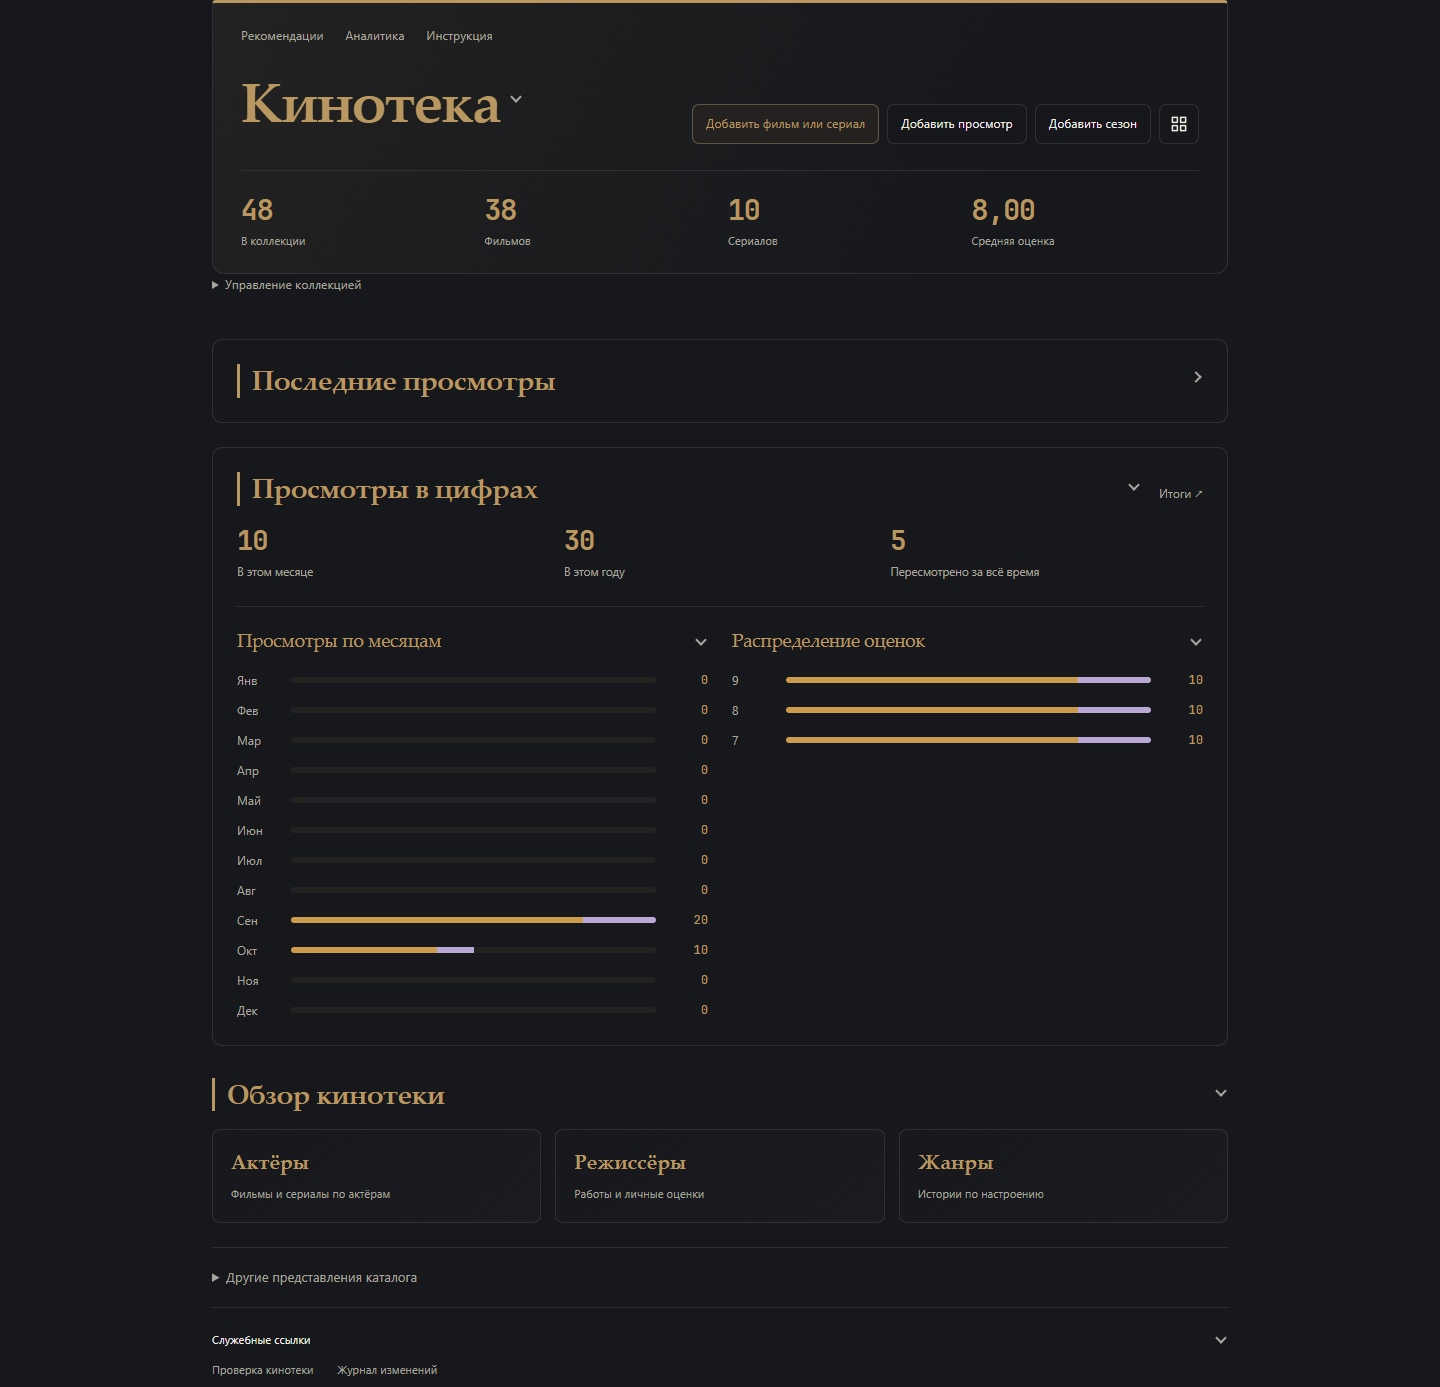
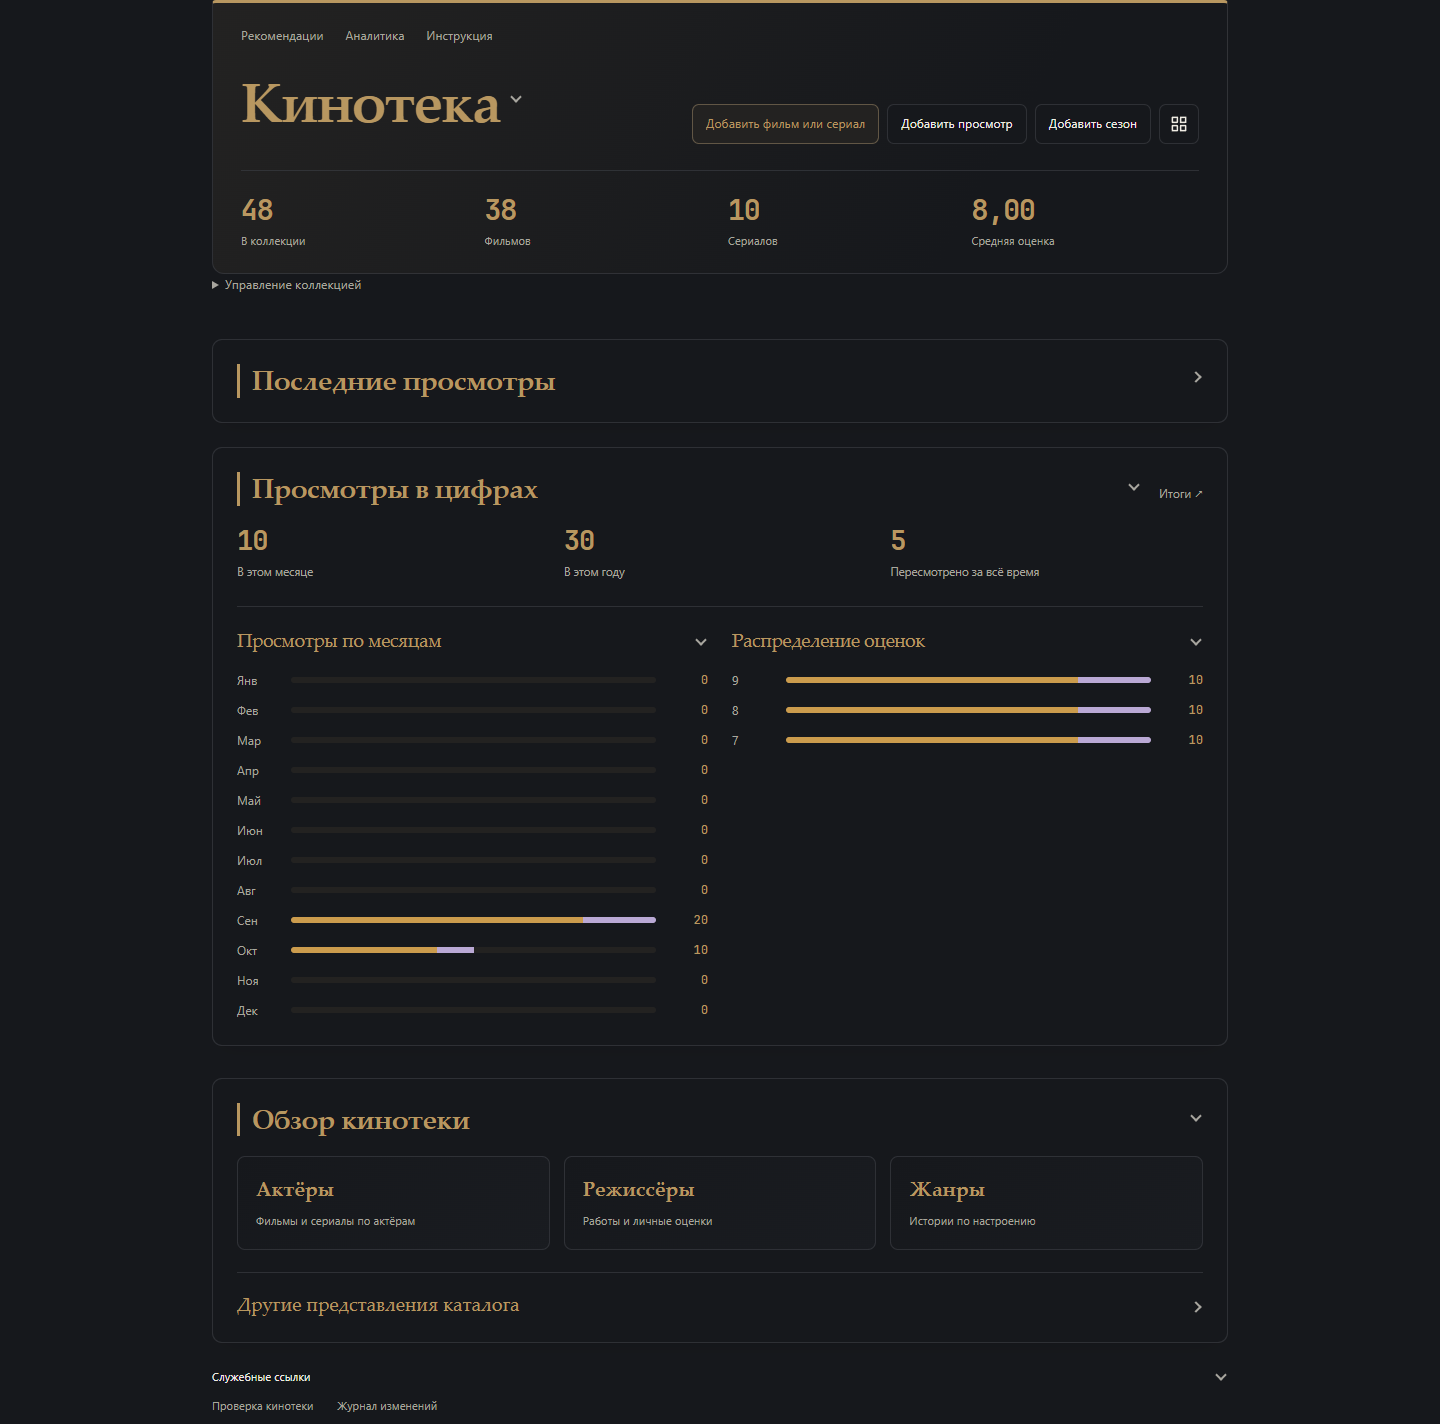
vault backup: 2026-10-10 01:41:23

diff --git a/Кино/_system/kino_home.js b/Кино/_system/kino_home.js
@@ -286,23 +286,27 @@ module.exports = async ({ dv, app, obsidian = {} }) => {
             if (!owner?.on) continue;
             for (const event of events) { const ref = owner.on(event, schedule); cleanups.push(() => owner.offref?.(ref)); }
         }
-        const overviews = el(root, 'section', 'kino-home-overviews'); el(overviews, 'h2', '', 'Обзор кинотеки');
-        const overviewLinks = el(overviews, 'div', 'kino-home-overview-links');
+        const overviews = el(root, 'section', 'kino-home-panel kino-home-overviews'); el(overviews, 'h2', '', 'Обзор кинотеки');
+        const overviewBody = el(overviews, 'div', 'kino-home-overview-body');
+        const overviewLinks = el(overviewBody, 'div', 'kino-home-overview-links');
         for (const [label, description, choice] of [['Актёры', 'Фильмы и сериалы по актёрам', 'Кино - Открыть актера'], ['Режиссёры', 'Работы и личные оценки', 'Кино - Открыть режиссера'], ['Жанры', 'Истории по настроению', 'Кино - Открыть жанр']]) {
             const tile = el(overviewLinks, 'div', 'kino-home-overview'); command(tile, label, choice); el(tile, 'p', '', description);
         }
-        const views = el(root, 'details', 'kino-home-views'); el(views, 'summary', '', 'Другие представления каталога');
+        const views = el(overviewBody, 'details', 'kino-home-views');
+        const viewsHeading = el(views, 'summary'); el(viewsHeading, 'span', '', 'Другие представления каталога');
+        el(viewsHeading, 'span', 'kino-home-fold-chevron').setAttribute('aria-hidden', 'true');
         rememberDetails(management, 'management'); rememberDetails(views, 'views');
         const viewLinks = el(views, 'nav', 'kino-home-view-links'); viewLinks.setAttribute('aria-label', 'Представления каталога');
         for (const [label, name] of [['Подробная таблица', 'Все'], ['Фильмы', 'Фильмы'], ['Сериалы', 'Сериалы'], ['По году релиза', 'По году релиза'], ['Сравнение оценок', 'Сравнение оценок']]) internal(viewLinks, label, 'Кино/_Кино.base#' + name);
         const nativeViews = [];
+        const viewsVisible = () => views.open && overviews.dataset.collapsed !== 'true';
         function nativeView(label, target, embedded = null) {
             const details = embedded ? embedded.box : el(views, 'details', 'kino-home-native-view'); details.dataset.target = target;
             if (!embedded) {
                 rememberDetails(details, 'native:' + target);
                 el(details, 'summary', '', label);
             }
-            const isOpen = () => embedded ? details.dataset.collapsed === 'false' : views.open && details.open;
+            const isOpen = () => embedded ? details.dataset.collapsed === 'false' : viewsVisible() && details.open;
             const content = el(embedded ? embedded.body : details, 'div', 'kino-home-native-content');
             let child = null, generation = 0;
             const linkCleanups = [];
@@ -339,14 +343,16 @@ module.exports = async ({ dv, app, obsidian = {} }) => {
         nativeView('Последние просмотры', 'Кино/_Кино.base#Последние');
         nativeView('Перепросмотры', 'Кино/_Кино.base#Перепросмотры');
         nativeView('Последние сериалы', 'Кино/_Кино.base#Последние сериалы');
-        listen(views, 'toggle', () => { for (const view of nativeViews) if (views.open) void view.open(); else view.clear(); });
+        function syncViews() { for (const view of nativeViews) if (viewsVisible()) void view.open(); else view.clear(); }
+        listen(views, 'toggle', syncViews);
+        listen(overviews, 'kino-fold-change', syncViews);
         const footer = el(root, 'footer', 'kino-home-footer');
         internal(footer, 'Проверка кинотеки', 'Кино/_system/Проверка кинотеки'); internal(footer, 'Журнал изменений', 'Кино/_system/Журнал изменений');
         foldBlock(masthead, heading.querySelector('h1'), [nav, actions, stats], 'masthead', 'Кинотека');
         for (const [block, key, label] of [[recent, 'recent', 'Последние просмотры'], [reading, 'reading', 'Просмотры в цифрах']]) {
             foldBlock(block.box, block.head.querySelector('h2'), [block.body, block.head.querySelector('.kino-home-caption')], key, label);
         }
-        foldBlock(overviews, overviews.querySelector('h2'), [overviewLinks], 'overview', 'Обзор кинотеки');
+        foldBlock(overviews, overviews.querySelector('h2'), [overviewBody], 'overview', 'Обзор кинотеки');
         foldBlock(footer, footer, [...footer.querySelectorAll('a')], 'footer', 'Служебные ссылки');
         if (!disposed) root.dataset.ready = 'true';
         return { dispose };

diff --git a/Кино/_system/kino-home.css b/Кино/_system/kino-home.css
@@ -99,6 +99,15 @@
 .kino-home-ui.kino-home-ui .kino-home-overview p { margin: 7px 0 0; font-size: .7em; color: var(--text-muted); overflow-wrap: anywhere; }
 .kino-home-ui.kino-home-ui .kino-home-views { padding: 18px 0; border-top: 1px solid var(--home-line); border-bottom: 1px solid var(--home-line); font-size: .82em; }
 .kino-home-ui.kino-home-ui .kino-home-views>summary { color: var(--text-muted); cursor: pointer; }
+.kino-home-ui.kino-home-ui .kino-home-overview-body { margin-top: 20px; min-width: 0; }
+.kino-home-ui.kino-home-ui .kino-home-overview-body .kino-home-overview-links { margin-top: 0; }
+.kino-home-ui.kino-home-ui .kino-home-overview-body .kino-home-views { margin-top: 22px; padding: 18px 0 0; border-bottom: none; }
+.kino-home-ui.kino-home-ui .kino-home-overview-body .kino-home-views>summary { display: flex; justify-content: space-between; align-items: baseline; gap: 14px; list-style: none; color: var(--home-heading-color); font: 500 19px/1.4 var(--home-serif); }
+.kino-home-ui.kino-home-ui .kino-home-views>summary::-webkit-details-marker { display: none; }
+.kino-home-ui.kino-home-ui .kino-home-views:not([open])>summary .kino-home-fold-chevron { transform: rotate(-45deg); }
+.kino-home-ui.kino-home-ui .kino-home-overview-body .kino-home-view-links { gap: 8px; padding: 18px 0; }
+.kino-home-ui.kino-home-ui .kino-home-overview-body .kino-home-view-links a { padding: 7px 11px; border: 1px solid var(--home-line); border-radius: 6px; color: var(--text-muted); font-size: .9em; }
+.kino-home-ui.kino-home-ui .kino-home-overview-body .kino-home-view-links a:hover { color: var(--home-accent); background: var(--home-tint); }
 .kino-home-ui.kino-home-ui .kino-home-view-links { display: flex; flex-wrap: wrap; gap: 10px 22px; padding: 20px 0; }
 .kino-home-ui.kino-home-ui .kino-home-reread h3 { margin: 4px 0 14px; font-size: 1em; font-weight: 500; color: var(--text-normal); }
 .kino-home-ui.kino-home-ui .kino-home-footer { display: flex; flex-wrap: wrap; gap: 10px 24px; margin-top: 22px; font-size: .7em; }

diff --git a/Кино/_system/Редизайн — прогресс.md b/Кино/_system/Редизайн — прогресс.md
@@ -5,6 +5,13 @@ obsidianUIMode: preview
 
 Обновлено: 09.10.2026. **Главная кинотеки по образцу Книг завершена.** Основной редизайн, компактные строки, шапка и выбор года тоже завершены; массовые миграции повторно не выполнять. При «продолжай» сначала прочитать этот файл и актуальный запрос.
 
+## Представления каталога встроены в обзор — 10.10.2026
+
+- **Запрос завершён:** «Другие представления каталога» перенесены внутрь «Обзора кинотеки», под тремя плитками актёров, режиссёров и жанров. Обзор оформлен одной общей панелью. Вложенный раздел отделён тонкой линией, использует общий заголовок с шевроном; ссылки на таблицу, фильмы, сериалы, год релиза и сравнение оценок оформлены компактными кнопками.
+- Сворачивание обзора скрывает плитки и представления вместе. Встроенные Bases освобождаются при закрытии родителя и восстанавливаются при раскрытии; сохранённые состояния вложенных разделов остаются. Последние просмотры на главной работают независимо.
+- Изменены kino_home.js, kino-home.css и существующие проверки home-ui. **12/12 проверок прошли:** home-ui 11/11, design-ui главная 1/1. Проверены вложенность, очистка/повторное раскрытие родителя, сохранение состояний, команды и адаптация. Телефонное превью просмотрено. Исходные заметки и база не изменялись.
+- Резервная копия: redesign-backups/overview-views-20261010/before.zip. Запрос завершён, повторять перенос при продолжении не нужно.
+
 ## Удалена плитка каталога из обзора — 10.10.2026
 
 - **Запрос завершён:** из «Обзора кинотеки» удалена плитка «Каталог» и подпись «Вся коллекция и оценки». Остались актёры, режиссёры и жанры. Сетка адаптирована к трём плиткам; на двухколоночной раскладке третья занимает всю строку. Основная кнопка каталога в шапке сохранена. Обновлены существующие проверки количества плиток и внутренней ссылки.
